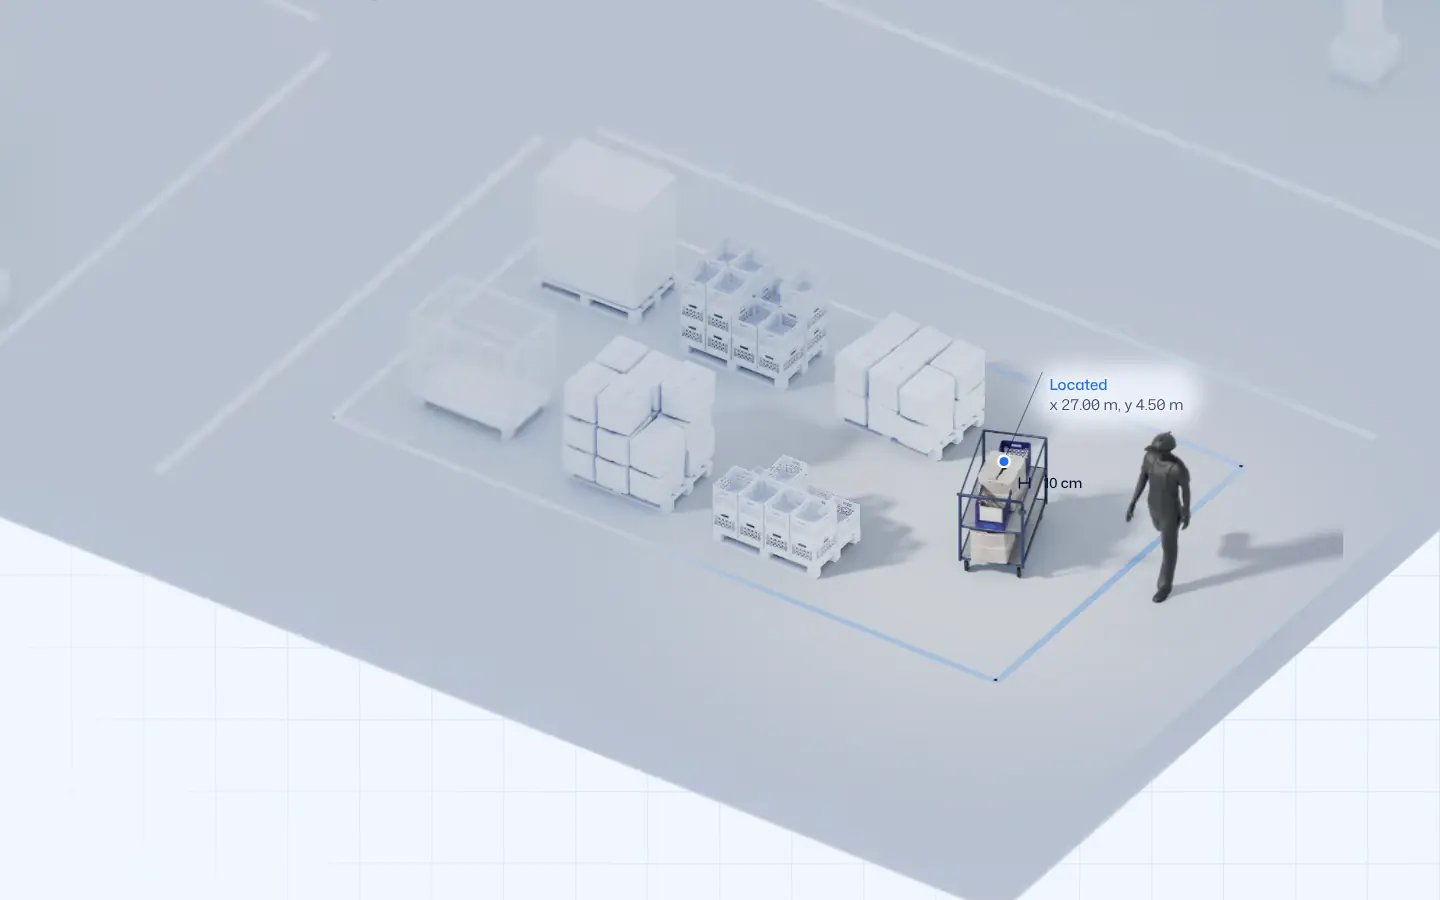
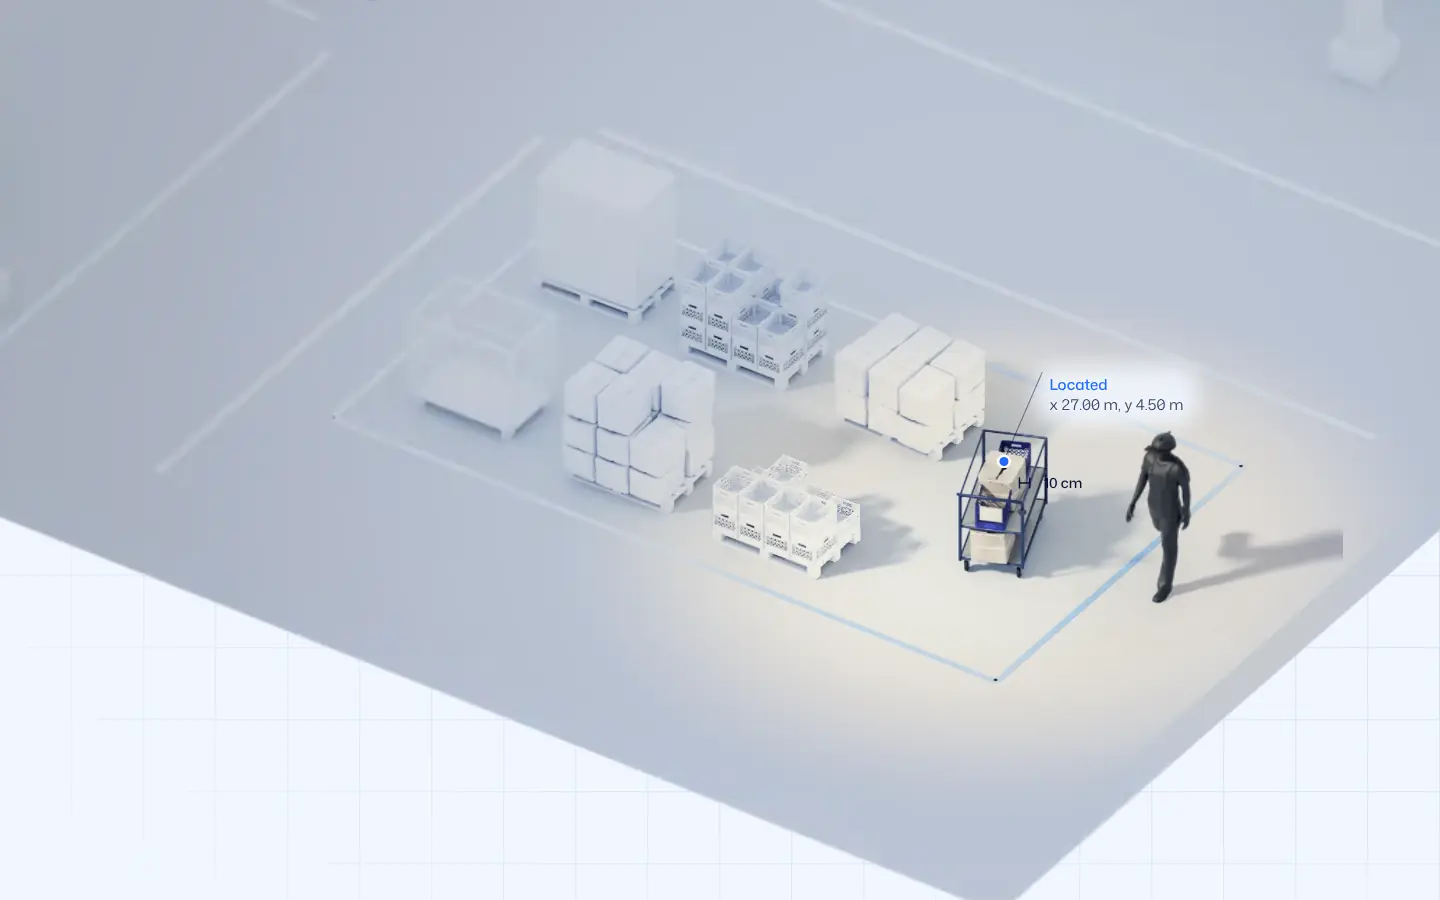
Explainer: colour script and light in the shader
Lost sits in a cold, drained morning with cool haze on the far side; the
light that comes with the first located trolley warms the plant (split
tone, a warm rim where the light arrives, soft roof-light pools); Seen
settles into a clear warm day. Same grade on the AMRs and the walker.
One extra texture read per pixel, no new files. Fallback pictures retaken.

Claude-Session: https://claude.ai/code/session_01YEydMJrMXd25Uxd8C1TWVL

Changed region(s): [[0.4688, 0.4044, 0.9062, 0.8089], [0.8125, 0.4667, 0.9062, 0.6222]]

diff --git a/studio/v1/js/floor.js b/studio/v1/js/floor.js
@@ -324,6 +324,8 @@
     st.l1 = i < 8 ? 0 : i === 8 ? ease(seg(u, .2, .3)) : 1; st.l2 = 0; st.l3 = i < 8 ? 0 : i === 8 ? ease5(seg(u, .34, .8)) : 1;
     // sunlight: Lost stands under a flat sky. Light opens around the first thing that is located, then crosses the whole floor.
     st.sun = i < 5 ? 0 : i === 5 ? 4.5 * ease(seg(u, .2, .5)) : i === 6 ? lerp(4.5, 48, ease(seg(u, .03, .42))) : 99;
+    // colour script: Lost is a cold, drained morning; the light that comes with the first located trolley warms the plant for good
+    st.cool = i < 3 ? 1 : i === 3 ? lerp(1, .6, ease(seg(u, .2, .9))) : i === 4 ? .6 : i === 5 ? lerp(.6, .12, ease(seg(u, .2, .6))) : i === 6 ? lerp(.12, 0, seg(u, 0, .5)) : 0;
     st.axes = i < 5 ? 0 : i === 5 ? seg(u, .5, .7) : 1;
     return st;
   }
@@ -354,18 +356,22 @@
 
   // ---- WebGL
   var VS1 = 'attribute vec2 a;void main(){gl_Position=vec4(a,0.,1.);}';
-  var FS1 = 'precision highp float;uniform vec2 uRes,uA,uF,uPl;uniform float uPpm;uniform sampler2D tWc,tWk,tMc,tMk,tCc,tCk,tXc,tXk,tWi,tMi,tCi,tXi,tLut;uniform vec4 uMid,uClose,uMac,uTx,uSun;uniform vec3 uW;uniform vec2 uO,uIa,uIb;uniform float uDay;float gF;' +
+  var FS1 = 'precision highp float;uniform vec2 uRes,uA,uF,uPl;uniform float uPpm;uniform sampler2D tWc,tWk,tMc,tMk,tCc,tCk,tXc,tXk,tWi,tMi,tCi,tXi,tLut;uniform vec4 uMid,uClose,uMac,uTx,uSun;uniform vec3 uW;uniform vec2 uO,uIa,uIb,uDr;uniform float uDay,uCool;uniform sampler2D tD;float gF;' +
+    'vec3 grade(vec3 col,float L,float dn,vec2 s){float lum=dot(col,vec3(.2126,.7152,.0722));float q=uCool*(1.-.6*L);float wv=L*(1.-uCool);col=mix(col,col*col*(3.-2.*col),.22+.18*wv);col=mix(col,vec3(lum)*vec3(.87,.92,1.04),q*.5);col*=1.-.07*q;col+=wv*(vec3(.05,.025,-.035)*(1.-.35*uDay)*smoothstep(.3,1.,lum)+vec3(-.02,-.006,.03)*(1.-smoothstep(0.,.55,lum)));col=mix(col,mix(vec3(.8,.85,.94),vec3(.98,.95,.9),wv),smoothstep(.3,1.,dn)*(.24-.1*wv));float vg=smoothstep(.35,1.15,length((s-uA)/uRes.y));col*=1.-vg*(.1+.08*q);col.b+=vg*.02*q;return clamp(col,0.,1.);}' +
     'float edge(vec2 u){vec2 d=min(u,1.-u);return smoothstep(0.,.07,min(d.x,d.y));}float r1(sampler2D t,vec2 u){float id=texture2D(t,u).r*255.;float v=texture2D(tLut,vec2((id+.5)/256.,.5)).r;return id<.5?max(v,gF):v;}float rv(sampler2D t,vec2 u,float d){vec2 o=vec2(d*.5,d*.5*uRes.x/uRes.y*0.+d*.5);return(r1(t,u+vec2(-o.x,-o.y))+r1(t,u+vec2(o.x,-o.y))+r1(t,u+vec2(-o.x,o.y))+r1(t,u+vec2(o.x,o.y)))*.25;}' +
     'void main(){vec2 s=vec2(gl_FragCoord.x,uRes.y-gl_FragCoord.y);vec2 m=(s-uA)/uPpm+uF;vec2 uv=m/uPl;vec2 wq=uv-uO;gF=1.-smoothstep(uSun.z-uSun.w,uSun.z,distance(vec2(dot(uIa,wq),dot(uIb,wq)),uSun.xy));' +
     'vec4 c=vec4(0.);if(uv.x>0.&&uv.x<1.&&uv.y>0.&&uv.y<1.)c=mix(texture2D(tWk,uv),texture2D(tWc,uv),rv(tWi,uv,uTx.x));' +
     'if(uW.x>0.){vec2 u=(uv-uMid.xy)/uMid.zw;if(u.x>0.&&u.x<1.&&u.y>0.&&u.y<1.)c=mix(c,mix(texture2D(tMk,u),texture2D(tMc,u),rv(tMi,u,uTx.y)),edge(u)*uW.x);}' +
     'if(uW.y>0.){vec2 u=(uv-uClose.xy)/uClose.zw;if(u.x>0.&&u.x<1.&&u.y>0.&&u.y<1.)c=mix(c,mix(texture2D(tCk,u),texture2D(tCc,u),rv(tCi,u,uTx.z)),edge(u)*uW.y);}' +
     'if(uW.z>0.){vec2 u=(uv-uMac.xy)/uMac.zw;if(u.x>0.&&u.x<1.&&u.y>0.&&u.y<1.)c=mix(c,mix(texture2D(tXk,u),texture2D(tXc,u),rv(tXi,u,uTx.w)),edge(u)*uW.z);}' +
-    'c.rgb*=mix(vec3(.9,.92,.955),vec3(1.),max(gF,uDay));gl_FragColor=c;}';
+    'float L=max(gF,uDay);c.rgb*=mix(vec3(.9,.92,.955),vec3(1.),L);' +
+    'vec2 wf=vec2(dot(uIa,wq),dot(uIb,wq));vec2 gp=fract(wf/vec2(7.5,6.6))-.5;float pool=smoothstep(.44,.08,length(gp*vec2(1.,1.25)));' +
+    'if(c.a>.001){vec3 col=c.rgb/c.a;col*=1.+.07*pool*L*(1.-uCool);col+=vec3(.06,.035,0.)*gF*(1.-gF)*4.*(1.-uDay);vec4 dd=texture2D(tD,uv);float dn=(dd.r*65280.+dd.g*255.)/65535.;c.rgb=grade(col,L,dn,s)*c.a;}gl_FragColor=c;}';
   var VS2 = 'attribute vec2 a;uniform vec2 uRes,uA,uF;uniform float uPpm;uniform vec4 uR;varying vec2 vU,vM;void main(){vU=a;vM=uR.xy+a*uR.zw;vec2 s=uA+(vM-uF)*uPpm;gl_Position=vec4(s.x/uRes.x*2.-1.,1.-s.y/uRes.y*2.,0.,1.);}';
-  var FS2 = 'precision highp float;varying vec2 vU,vM;uniform sampler2D tAt,tD;uniform vec2 uCa,uCb,uPl,uDr;uniform float uMix,uAl,uBy,uBd,uTan;' +
+  var FS2 = 'precision highp float;varying vec2 vU,vM;uniform sampler2D tAt,tD;uniform vec2 uCa,uCb,uPl,uDr,uRes,uA;uniform float uMix,uAl,uBy,uBd,uTan,uCool,uDay;' +
+    'vec3 grade(vec3 col,float L,float dn,vec2 s){float lum=dot(col,vec3(.2126,.7152,.0722));float q=uCool*(1.-.6*L);float wv=L*(1.-uCool);col=mix(col,col*col*(3.-2.*col),.22+.18*wv);col=mix(col,vec3(lum)*vec3(.87,.92,1.04),q*.5);col*=1.-.07*q;col+=wv*(vec3(.05,.025,-.035)*(1.-.35*uDay)*smoothstep(.3,1.,lum)+vec3(-.02,-.006,.03)*(1.-smoothstep(0.,.55,lum)));col=mix(col,mix(vec3(.8,.85,.94),vec3(.98,.95,.9),wv),smoothstep(.3,1.,dn)*(.24-.1*wv));float vg=smoothstep(.35,1.15,length((s-uA)/uRes.y));col*=1.-vg*(.1+.08*q);col.b+=vg*.02*q;return clamp(col,0.,1.);}' +
     'void main(){vec2 q=clamp(vU,.004,.996)*.125;vec4 c=mix(texture2D(tAt,uCb+q),texture2D(tAt,uCa+q),uMix);vec4 dd=texture2D(tD,vM/uPl);float D=uDr.x+(dd.r*65280.+dd.g*255.)/65535.*(uDr.y-uDr.x);' +
-    'float dy=uBy-vM.y;float fd=uBd-(dy>0.?dy*uTan:-dy/uTan);gl_FragColor=c*uAl*smoothstep(-.75,-.3,D-fd);}';
+    'float dy=uBy-vM.y;float fd=uBd-(dy>0.?dy*uTan:-dy/uTan);if(c.a>.001)c.rgb=grade(c.rgb/c.a,max(uDay,1.-uCool),(D-uDr.x)/(uDr.y-uDr.x),vec2(gl_FragCoord.x,uRes.y-gl_FragCoord.y))*c.a;gl_FragColor=c*uAl*smoothstep(-.75,-.3,D-fd);}';
   function prog(vs, fs) {
     var pr = gl.createProgram();
     [[gl.VERTEX_SHADER, vs], [gl.FRAGMENT_SHADER, fs]].forEach(function (x) { var s = gl.createShader(x[0]); gl.shaderSource(s, x[1]); gl.compileShader(s); if (!gl.getShaderParameter(s, gl.COMPILE_STATUS)) throw new Error(gl.getShaderInfoLog(s)); gl.attachShader(pr, s); });
@@ -475,7 +481,7 @@
     gl.uniform2f(U.uRes, W, Hh); gl.uniform2f(U.uA, cam.ax * dpr, cam.ay * dpr); gl.uniform2f(U.uF, cam.fx, cam.fy); gl.uniform1f(U.uPpm, cam.ppm * dpr); gl.uniform2f(U.uPl, M.scale, M.scale / M.aspect); setLut(st); gl.uniform1i(U.tLut, 12);
     ['wide_col', 'wide_clay', 'mid_col', 'mid_clay', 'close_col', 'close_clay', 'macro_col', 'macro_clay', 'wide_id', 'mid_id', 'close_id', 'macro_id'].forEach(function (n, k) { gl.activeTexture(gl.TEXTURE0 + k); gl.bindTexture(gl.TEXTURE_2D, tex[n].t); gl.uniform1i(U[['tWc', 'tWk', 'tMc', 'tMk', 'tCc', 'tCk', 'tXc', 'tXk', 'tWi', 'tMi', 'tCi', 'tXi'][k]], k); });
     var dt2 = M.x[0] * M.y[1] - M.y[0] * M.x[1]; gl.uniform2f(U.uO, M.o[0], M.o[1]); gl.uniform2f(U.uIa, M.y[1] / dt2, -M.y[0] / dt2); gl.uniform2f(U.uIb, -M.x[1] / dt2, M.x[0] / dt2);
-    gl.uniform1f(U.uDay, st.all);
+    gl.uniform1f(U.uDay, st.all); gl.uniform1f(U.uCool, st.cool); gl.uniform2f(U.uDr, M.depth[0], M.depth[1]); gl.activeTexture(gl.TEXTURE13); gl.bindTexture(gl.TEXTURE_2D, tex.depth.t); gl.uniform1i(U.tD, 13);
     gl.uniform4f(U.uSun, M.hero[0], M.hero[1], st.sun, Math.min(6, st.sun * .8) + .01);
     gl.uniform4f(U.uTx, 1 / tex.wide_id.w, 1 / tex.mid_id.w, 1 / tex.close_id.w, 1 / tex.macro_id.w); gl.uniform4fv(U.uMid, M.mid); gl.uniform4fv(U.uClose, M.close); gl.uniform4fv(U.uMac, M.macro);
     var dp = cam.ppm * dpr, wp = tex.wide_col.w / M.scale, mp = tex.mid_col.w / (M.mid[2] * M.scale), cp = tex.close_col.w / (M.close[2] * M.scale);
@@ -484,7 +490,7 @@
     // --- sprites, far ones first
     U = P2.u; gl.useProgram(P2.p); gl.bindBuffer(gl.ARRAY_BUFFER, tex.quad); gl.vertexAttribPointer(0, 2, gl.FLOAT, false, 0, 0);
     gl.uniform2f(U.uRes, W, Hh); gl.uniform2f(U.uA, cam.ax * dpr, cam.ay * dpr); gl.uniform2f(U.uF, cam.fx, cam.fy); gl.uniform1f(U.uPpm, cam.ppm * dpr); gl.uniform2f(U.uPl, M.scale, M.scale / M.aspect);
-    gl.uniform2f(U.uDr, M.depth[0], M.depth[1]); gl.uniform1f(U.uTan, TAN);
+    gl.uniform2f(U.uDr, M.depth[0], M.depth[1]); gl.uniform1f(U.uTan, TAN); gl.uniform1f(U.uCool, st.cool); gl.uniform1f(U.uDay, st.all);
     gl.activeTexture(gl.TEXTURE0); gl.bindTexture(gl.TEXTURE_2D, tex.sprites.t); gl.uniform1i(U.tAt, 0); gl.activeTexture(gl.TEXTURE1); gl.bindTexture(gl.TEXTURE_2D, tex.depth.t); gl.uniform1i(U.tD, 1);
     var sp = [], wk = M.spr.walk, ar = M.spr.amr, w = st.walker;
     var fr = Math.floor(st.wd / wk.stride * 8) % 8;
